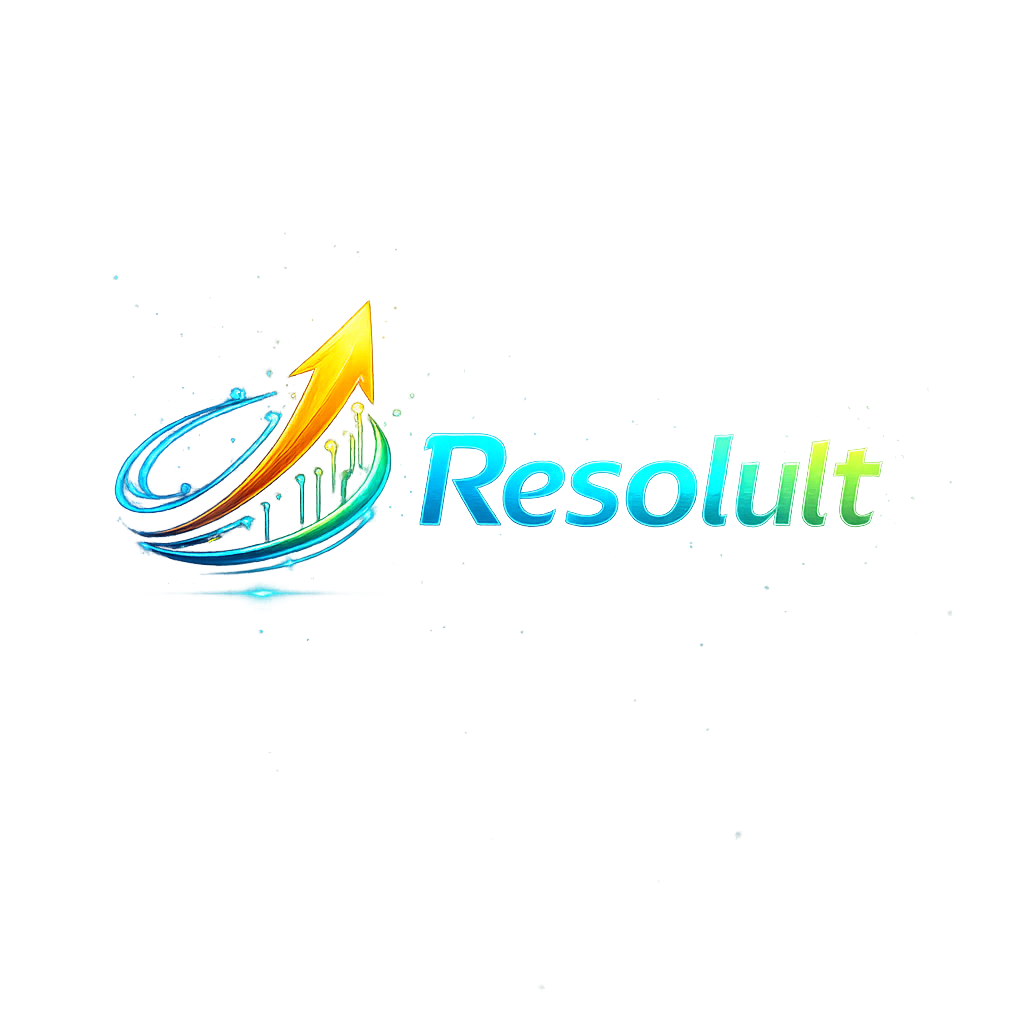
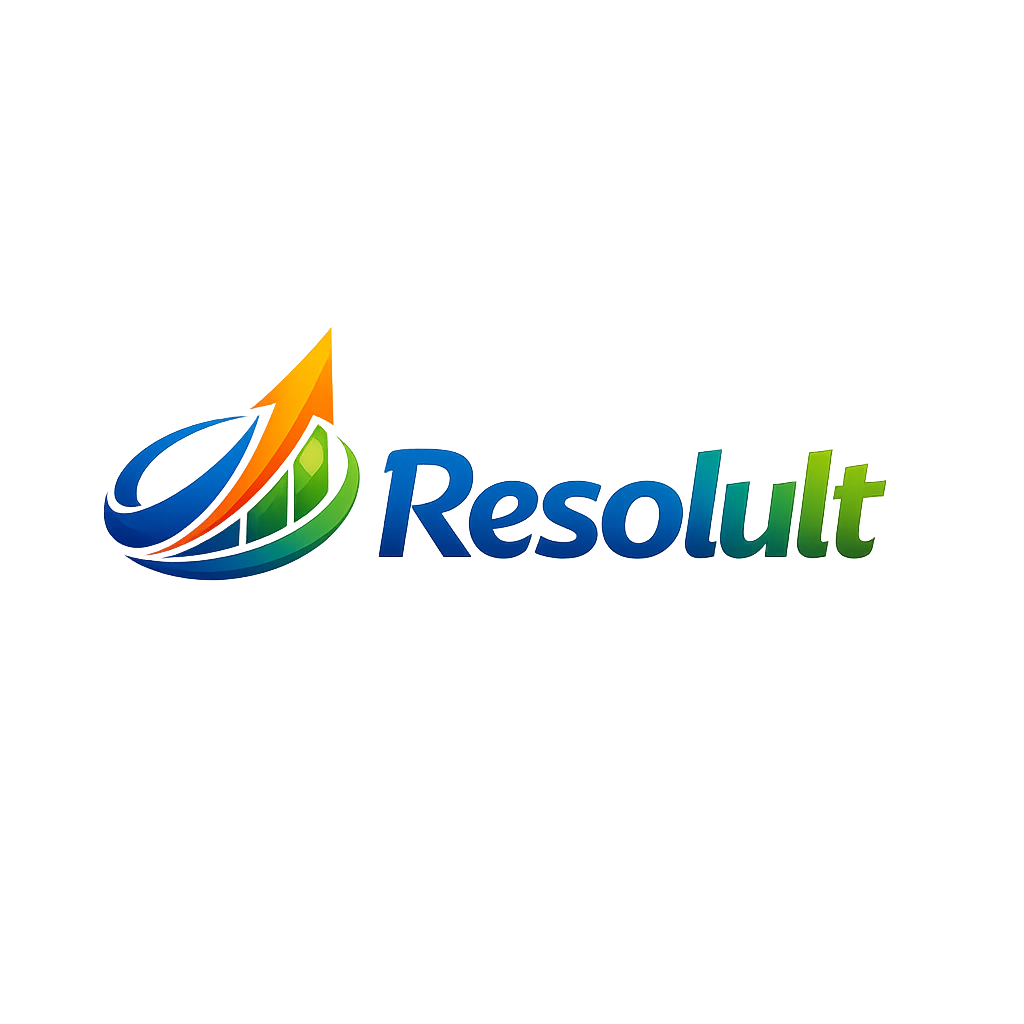
Adiciona logotipo e frase no rodapé

Changed region(s): [[0.0938, 0.2812, 0.875, 0.5938]]

diff --git a/src/app/layout.tsx b/src/app/layout.tsx
@@ -1,18 +1,13 @@
 // src/app/layout.tsx
-
-// Importa o arquivo CSS global (onde o Tailwind é configurado)
-import './globals.css'; // Certifique-se de que o caminho está correto!
-
-// Importa uma fonte do Google Fonts (ex: Inter)
-// Se você não quiser usar uma fonte específica, pode remover esta importação e o className no <html>
+import './globals.css';
 import { Inter } from 'next/font/google';
+import Image from 'next/image';
 
 const inter = Inter({
-  subsets: ['latin'], // Define os subconjuntos de caracteres da fonte
-  display: 'swap',    // Garante que a fonte seja exibida corretamente
+  subsets: ['latin'],
+  display: 'swap',
 });
 
-// Metadados da aplicação (opcional, mas recomendado para SEO)
 export const metadata = {
   title: 'Painel da Igreja',
   description: 'Sistema de gerenciamento para a igreja',
@@ -24,14 +19,32 @@ export default function RootLayout({
   children: React.ReactNode;
 }) {
   return (
-    // O <html> deve ter a propriedade lang e, opcionalmente, o className da fonte
     <html lang="pt-BR" className={inter.className}>
-      <body>
-        {/*
-          O 'children' representa o conteúdo das suas páginas e layouts aninhados.
-          Ele será renderizado dentro do <body>.
-        */}
-        {children}
+      <body className="min-h-screen flex flex-col">
+        {/* Conteúdo principal */}
+        <main className="flex-1">
+          {children}
+        </main>
+
+        {/* "Rodapé" com logo + frase, tudo embaixo e lado a lado */}
+        <footer className="w-full flex flex-col items-center justify-center gap-2 py-4">
+          <div className="flex items-center gap-3">
+            <Image
+              src="/uploads/resolult.png"   // seu logo em public/uploads
+              alt="Logotipo do Projeto"
+              width={120}               // ajuste o tamanho como quiser
+              height={120}
+            />
+            <div className="flex flex-col">
+              <span className="italic text-sm text-center">
+                "Transformar desafios em resultados concretos."
+              </span>
+              <span className="text-xs text-center mt-1">
+                Desenvolvido por Neto
+              </span>
+            </div>
+          </div>
+        </footer>
       </body>
     </html>
   );
